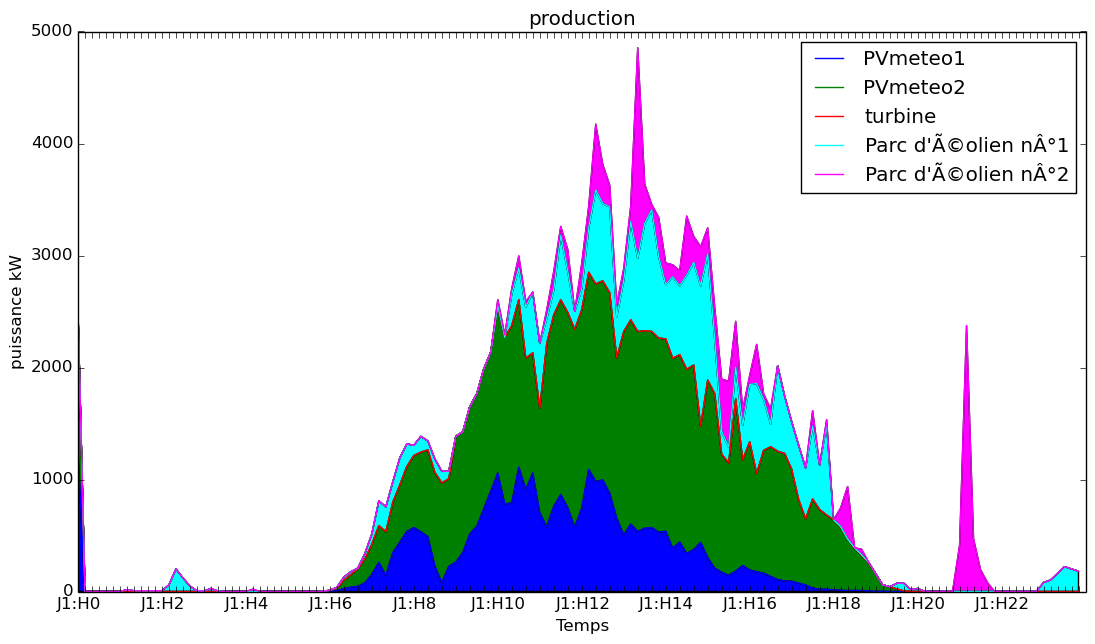
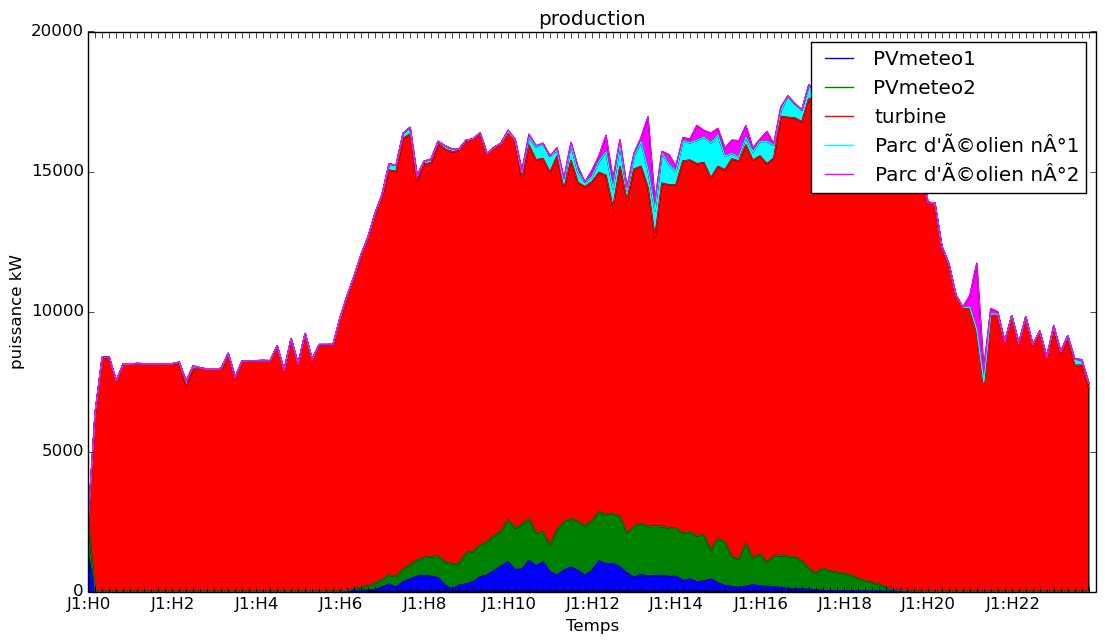
ajout foisonnement

diff --git a/Ville.py b/Ville.py
@@ -10,16 +10,26 @@ from Equipement.ParcBatterieLithiumIon import ParcBatterieLithiumIon
 from Equipement.ParcMagasins import ParcMagasins
 from Utilitaire.Global import meteo1
 from Utilitaire.Global import meteo2
+from Utilitaire.Global import meteo3
+from Utilitaire.Global import meteo4
+from Utilitaire.Global import meteo5
 from Utilitaire.Global import meteoTest
 
 class Ville:
 
 	def __init__(self):
 		self.equipProduction = [ParcSolaire(nom="PVmeteo1",prod=250.,activite=50.,nb=10.,meteo=meteo1),\
-		                        ParcSolaire("PVmeteo2",prod=250.,activite=50.,nb=10.,meteo=meteo2),\
-		                        ParcTurbineAGaz("turbine"),\
+		                        ParcSolaire(nom="PVmeteo2",prod=250.,activite=50.,nb=10.,meteo=meteo2),\
+		                        ParcSolaire(nom="PVmeteo3",prod=250.,activite=50.,nb=10.,meteo=meteo3),\
+		                        ParcSolaire(nom="PVmeteo4",prod=250.,activite=50.,nb=10.,meteo=meteo4),\
+		                        ParcSolaire(nom="PVmeteo5",prod=250.,activite=50.,nb=10.,meteo=meteo5),\
+		                        ParcTurbineAGaz("turbine1"),\
+		                        ParcTurbineAGaz("turbine2"),\
 		                        ParcEolien(nom="eolienne,meteo1",n=500., eolienne="eolienne5", meteoVent=meteo1),\
-		                        ParcEolien(nom="eolienne,meteo2",n=5., eolienne="eolienne1500", meteoVent=meteo2)]
+		                        ParcEolien(nom="eolienne,meteo2",n=5., eolienne="eolienne1500", meteoVent=meteo2),\
+		                        ParcEolien(nom="eolienne,meteo3",n=500., eolienne="eolienne5", meteoVent=meteo3),\
+		                        ParcEolien(nom="eolienne,meteo4",n=5., eolienne="eolienne1500", meteoVent=meteo4),\
+		                        ParcEolien(nom="eolienne,meteo5",n=500., eolienne="eolienne5", meteoVent=meteo5)]
 		self.equipConso = [ParcUsine38("Usine2-38"),\
 						   ParcMaison("parcmaison1",nombre=1200),\
 		                   ParcUsine("Usine1"),\

diff --git a/Utilitaire/Global.py b/Utilitaire/Global.py
@@ -6,6 +6,9 @@ duree=6*24
 db = BaseDeDonnees()
 meteo1 = db.importerMeteo("Semaine1")
 meteo2 = db.importerMeteo("Semaine2")
+meteo3 = db.importerMeteo("Semaine3")
+meteo4 = db.importerMeteo("Semaine4")
+meteo5 = db.importerMeteo("Semaine5")
 meteoTest = db.importerMeteo("Test")
 def tempsinc():
     global temps
